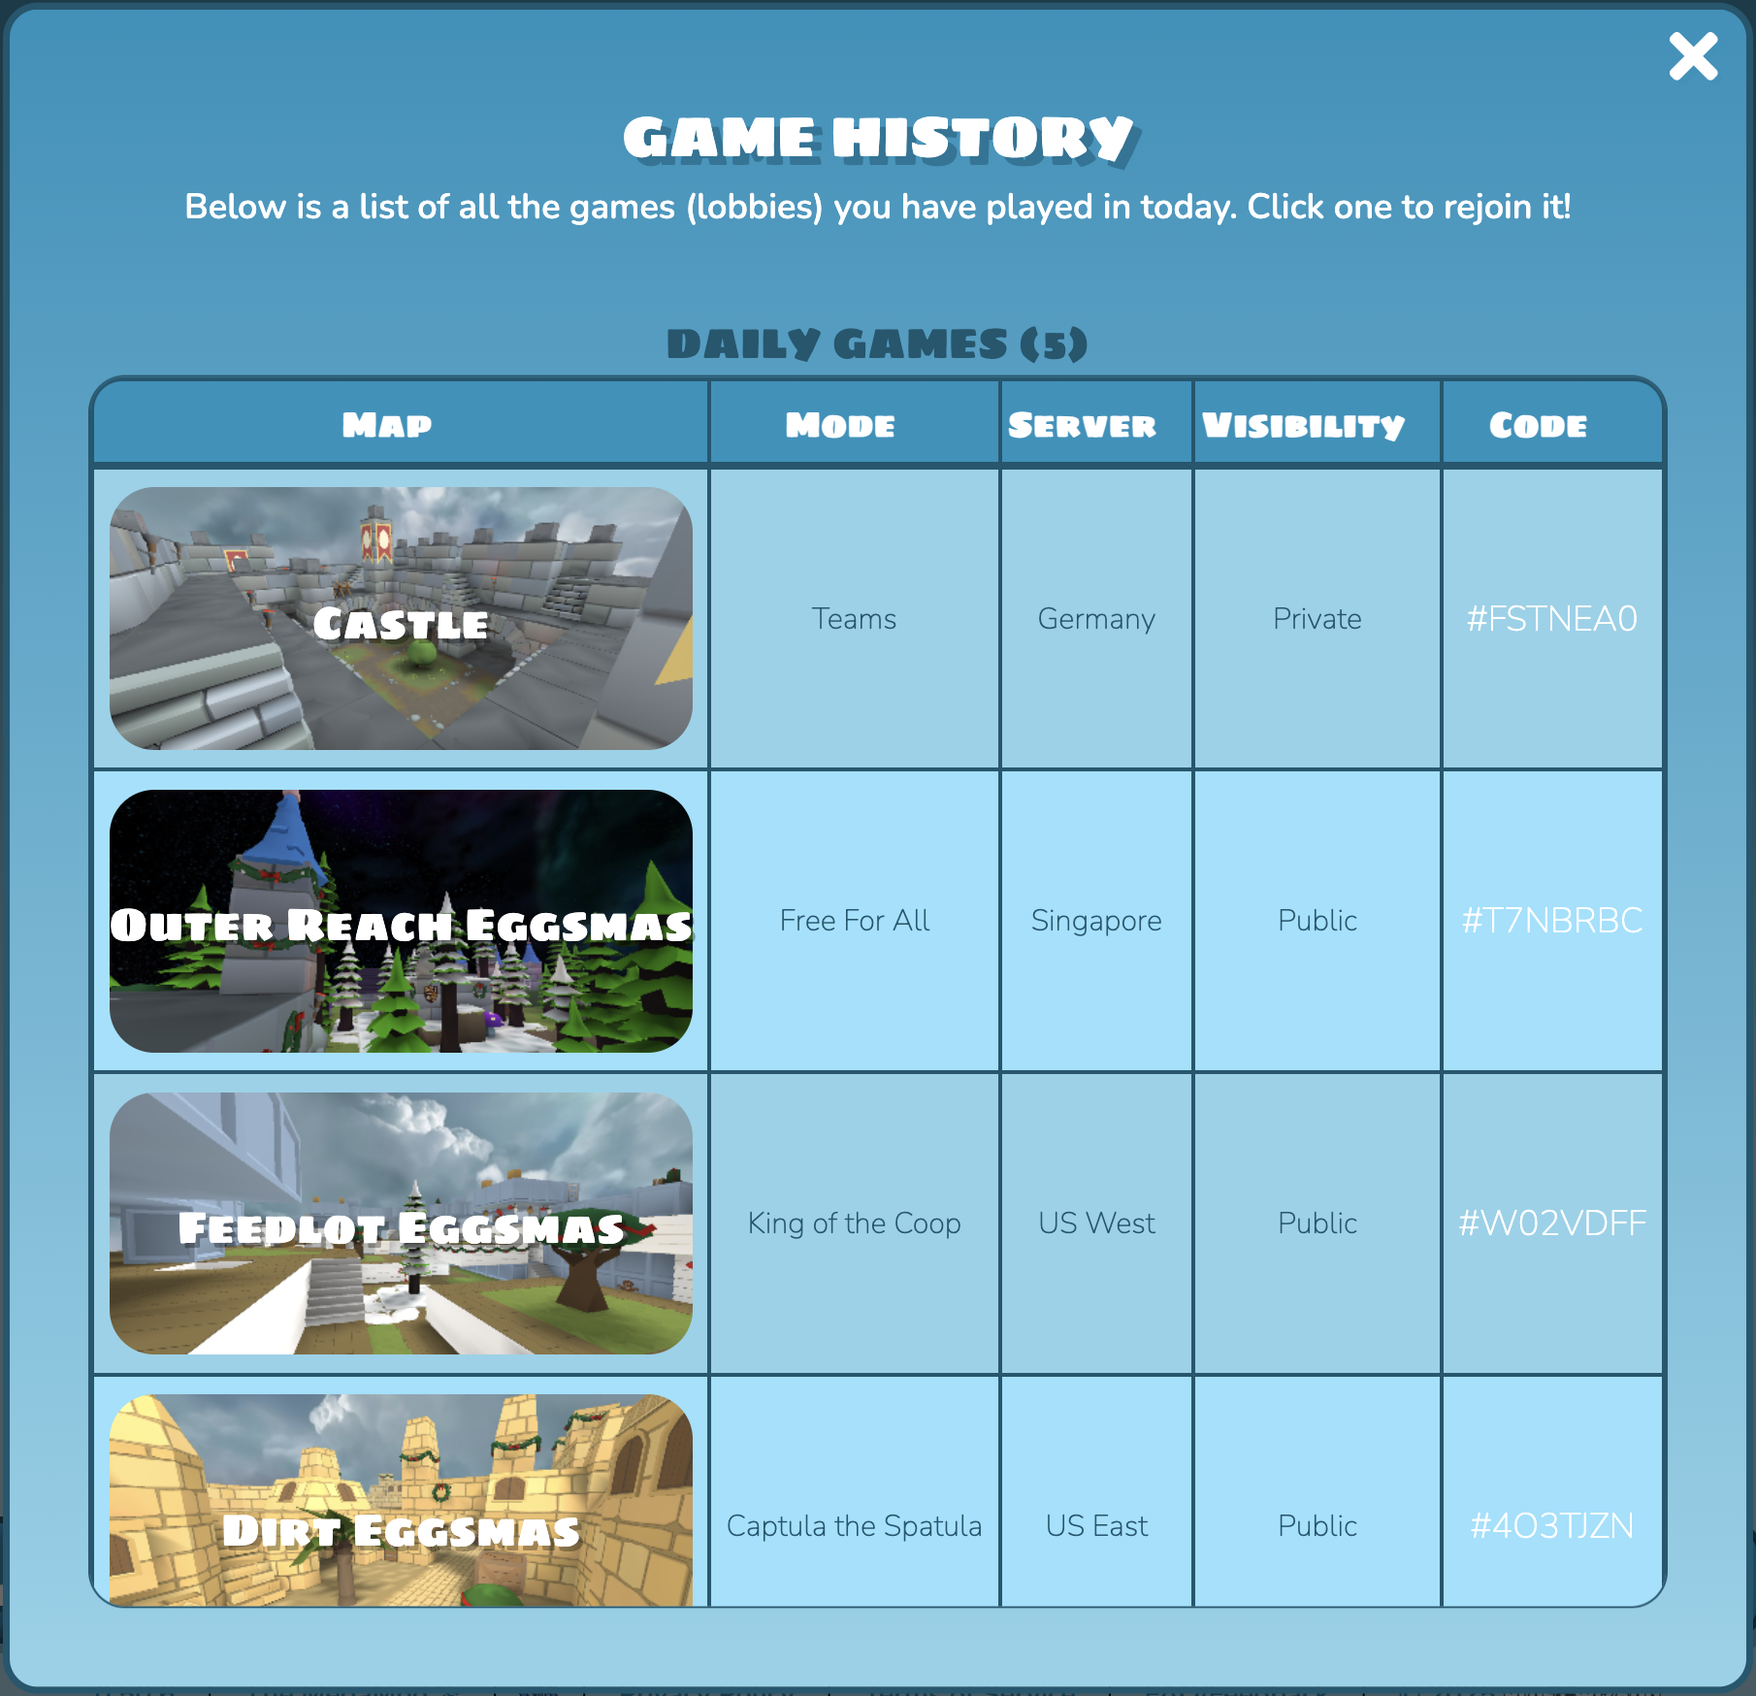
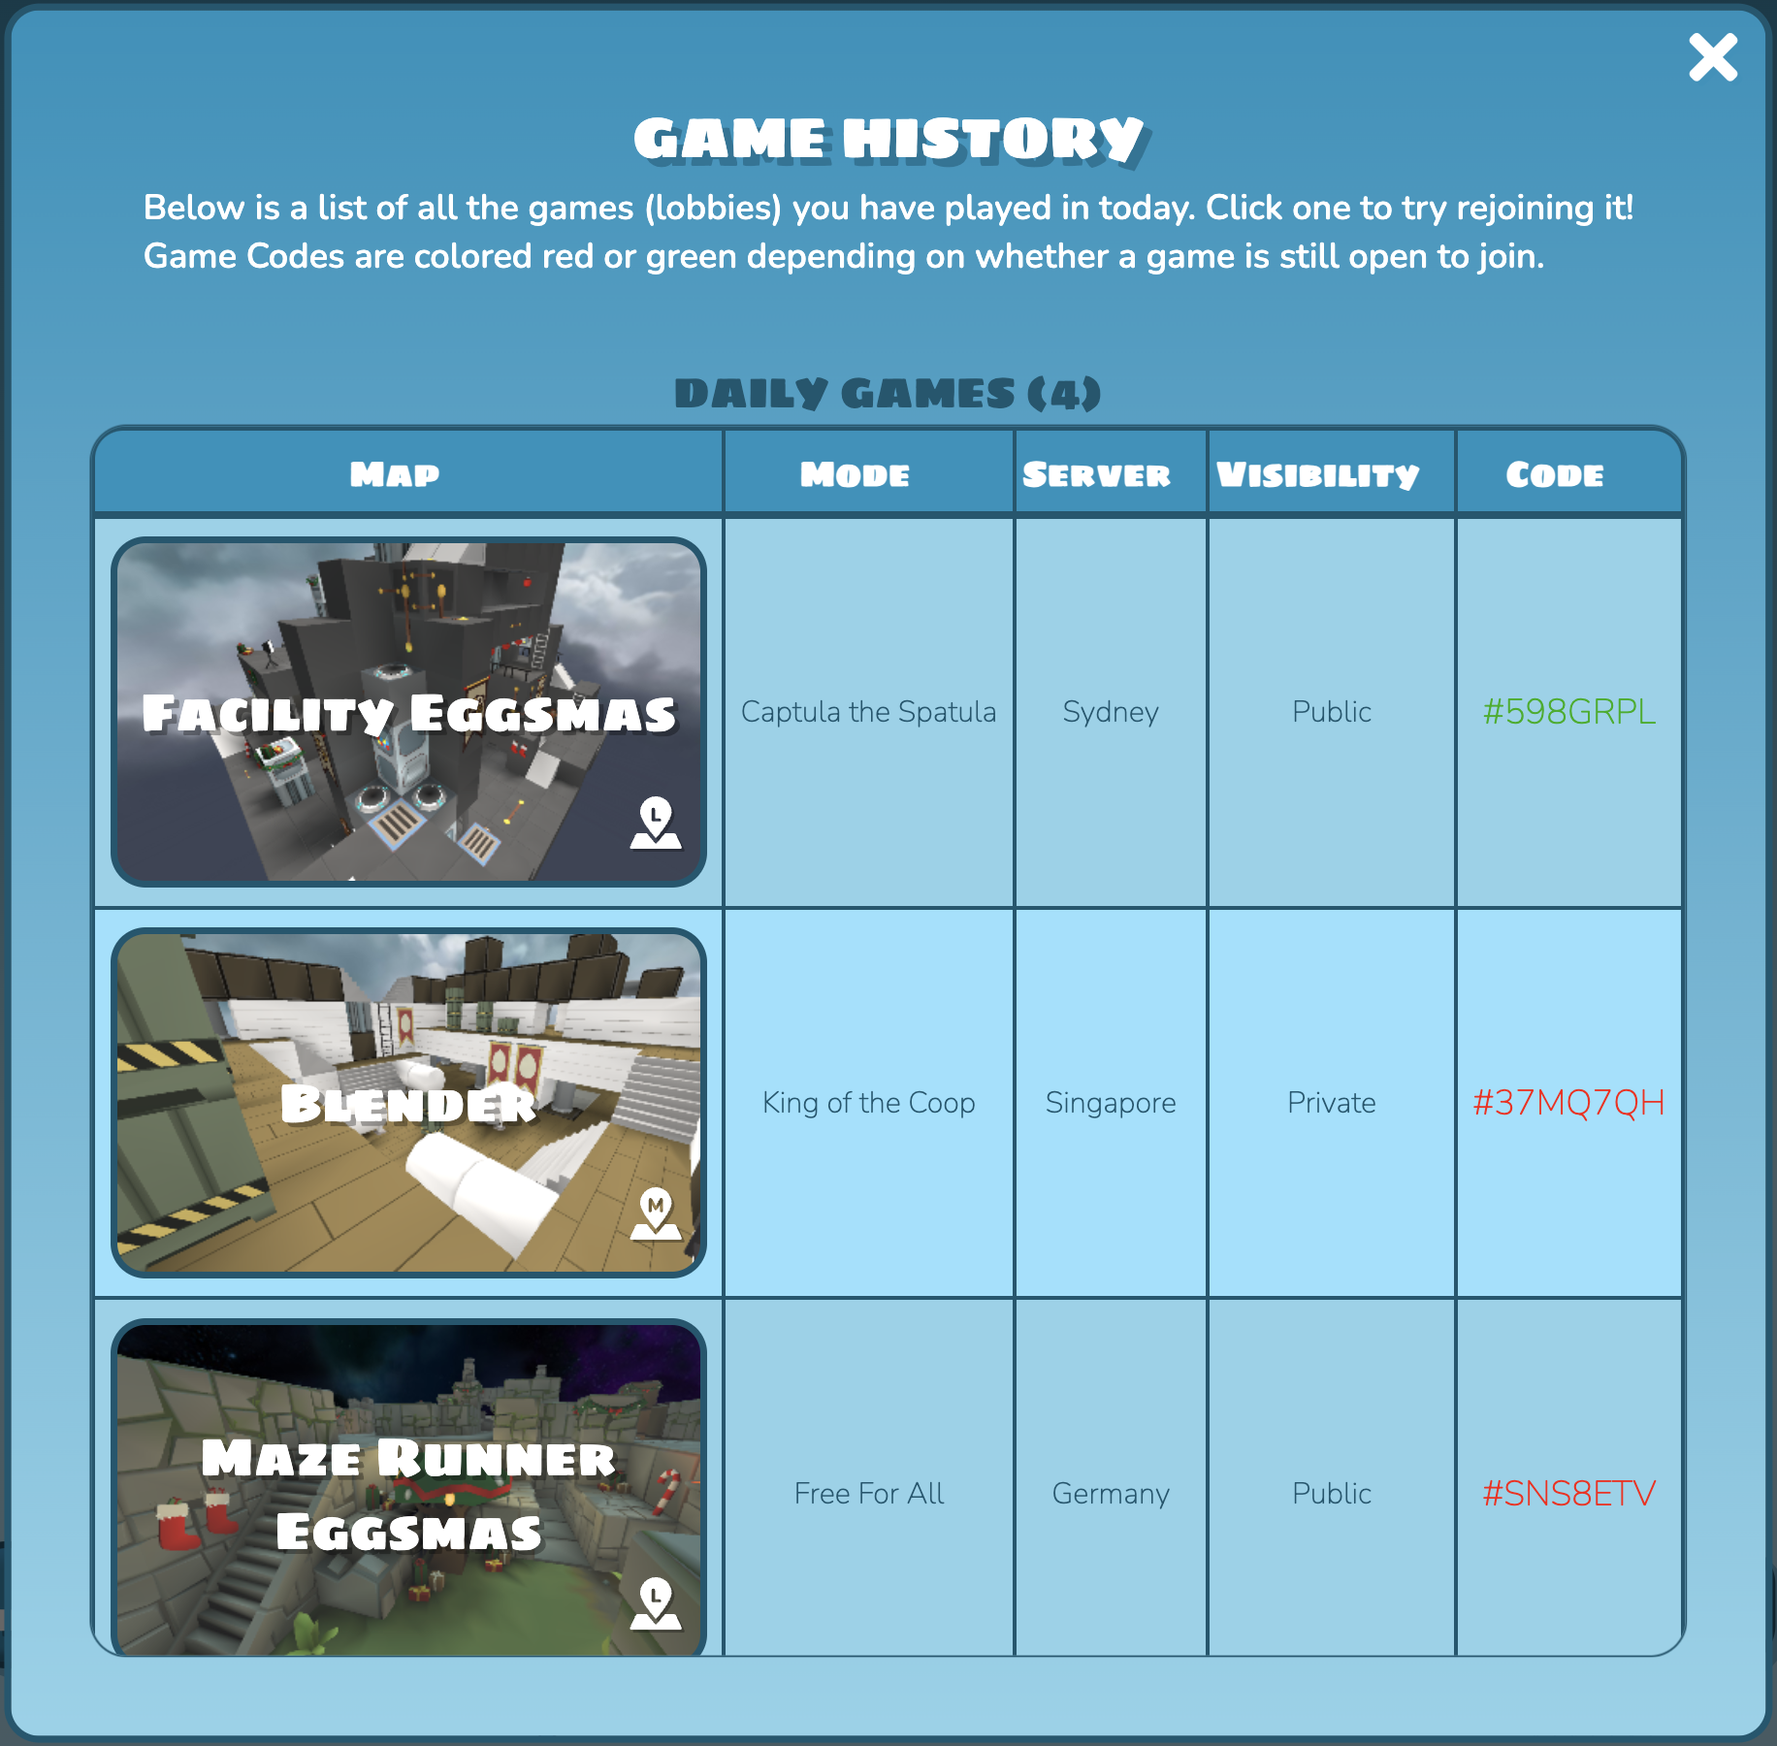
Update 0.20 (Files)

diff --git a/js/megaMod.js b/js/megaMod.js
@@ -656,12 +656,25 @@ class MegaMod {
                 BAWK.play("ui_click");
                 unsafeWindow.openUpdate();
             },
-            openGameCode(code) {
+            openGameCode(code, isOpen) {
+                if (!isOpen) {
+                    BAWK.play("ui_reset");
+                    return;
+                }
                 vueApp.$refs.gameHistoryPopup.close();
                 BAWK.play("ui_popupopen");
                 vueApp.showJoinPrivateGamePopup(code);
             },
-            currencyCode: "USD"
+            currencyCode: "USD",
+            getMapSizeIcon(size) {
+                if (size <= 13) {
+                    return 'ico-map-size-small';
+                } else if (size >= 14 && size <= 17) {
+                    return 'ico-map-size-med';
+                } else if (size > 17) {
+                    return 'ico-map-size-large';
+                }
+            }
         });
     
         // Adjust size of stats container for badges
@@ -1138,10 +1151,6 @@ class MegaMod {
             return typeof oldGoal === "number" ? oldGoal.addSeparators() : oldGoal;
         }
 
-        comp_chickn_winner_popup.computed.showAmountRewarded = function() {
-            if (this.reward.eggs) return `+${this.reward.eggs.addSeparators()}`;
-        }
-
         const oldSetupStat = StatTemplate.methods.setupStat;
         StatTemplate.methods.setupStat = function(stat) {
             if (stat?.length && !this.stat.kdr) stat = stat.map(s => typeof s === "number" ? s.addSeparators() : s);
@@ -1156,6 +1165,45 @@ class MegaMod {
         comp_game_screen.computed.wakeTheChw = function() {
             this.loc.chw_wake.format((200 * (this.chw.resets + 1)).addSeparators());
         }
+
+         // Show Chick'n Winner Owned Item
+        vueData.chw.reward.ownedItem = null;
+        const oldRewardItem = comp_chickn_winner_popup.computed.rewardItem;
+        Object.assign(comp_chickn_winner_popup.computed, {
+            // Add Separators
+            showAmountRewarded() {
+                if (this.reward.eggs) return `+${this.reward.eggs.addSeparators()}`;
+            },
+            rewardHasOwnedItem() {
+                return this.reward.ownedItem !== null;
+            },
+            rewardItem() {
+                return this.rewardHasOwnedItem ? extern.catalog.findItemById(this.reward.ownedItem) : oldRewardItem.call(this);
+            }
+        });
+        
+        comp_chickn_winner_popup.methods.eggClass = function(count) {
+            let hide;
+            if (count > 5 && (this.reward.itemIds.length || (extern?.modSettingEnabled?.('betterUI_ui') && this.reward.ownedItem))) {
+                hide = 'visibility-hidden cyborg-egg';
+            }
+            if (count > 5) {
+                return `chick-alive ${hide} egg-${count} cyborg-egg`;
+            }
+        }
+
+        const hasOwnedItem = "extern?.modSettingEnabled?.('betterUI_ui') && rewardHasOwnedItem";
+        const chicknWinner = document.getElementById("chickn-winner-template");
+        chicknWinner.innerHTML = chicknWinner.innerHTML.replace(
+            `rewardHasItem`,
+            `rewardHasItem || (${hasOwnedItem})`
+        ).replace(
+            `<div v-if="showAmountRewarded`,
+            `<div :class="{ ownedItem: ${hasOwnedItem} }" v-if="showAmountRewarded`
+        ).replace(
+            `rewardItem.name }}</h4>`,
+            `rewardItem.name }}</h4><h4 v-if="${hasOwnedItem}" class="text_white text-center nospace text-shadow-black-40">{{ loc.megaMod_betterUI_chwOwnedItem }}</h4>`
+        );
     }
 
     static addPopups() {
@@ -1277,8 +1325,15 @@ class MegaMod {
                             <tbody>
                                 <tr v-for="map in ${publicMaps}">
                                     <td :data-sort="map.name" class="map-image"> 
-                                        <div class="roundme_md text-shadow-black-40" :style="{ backgroundImage: \`url(/maps/\${map.filename}.png)\` }">
-                                        {{ map.name }}
+                                        <div id="private_maps" class="roundme_md" :style="{ backgroundImage: \`url(/maps/\${map.filename}.png)\` }">
+                                            <div id="mapNav">
+                                                <h5 id="mapText" class="text-shadow-black-40">
+                                                    {{ map.name }}
+                                                    <span class="map_playercount text-shadow-black-40 font-nunito box_absolute">
+                                                        <icon class="map-avg-size-icon fill-white shadow-filter" :name="getMapSizeIcon(map.numPlayers)"></icon>
+                                                    </span>
+                                                </h5>
+                                            </div>
                                         </div>
                                     </td>
                                     <td v-for="mode in ['FFA', 'Teams', 'Spatula', 'King']" :data-sort="map.modes[mode]" class="map-mode"> 
@@ -1308,10 +1363,17 @@ class MegaMod {
                                 </tr>
                             </thead>
                             <tbody>
-                                <tr v-for="lobby in (vueData?.gameHistory || []).slice().reverse()" @click="openGameCode(lobby.gameCode)">
+                                <tr v-for="lobby in (vueData?.gameHistory || []).slice().reverse()" @click="openGameCode(lobby.gameCode, lobby?.isOpen)">
                                     <td :data-sort="lobby.map.name" class="map-image"> 
-                                        <div class="roundme_md text-shadow-black-40" :style="{ backgroundImage: \`url(/maps/\${lobby.map.filename}.png)\` }">
-                                        {{ lobby.map.name }}
+                                        <div id="private_maps" class="roundme_md" :style="{ backgroundImage: \`url(/maps/\${lobby.map.filename}.png)\` }">
+                                            <div id="mapNav">
+                                                <h5 id="mapText" class="text-shadow-black-40">
+                                                    {{ lobby.map.name }}
+                                                    <span class="map_playercount text-shadow-black-40 font-nunito box_absolute">
+                                                        <icon class="map-avg-size-icon fill-white shadow-filter" :name="getMapSizeIcon(maps.find(m => m.filename === lobby.map.filename).numPlayers)"></icon>
+                                                    </span>
+                                                </h5>
+                                            </div>
                                         </div>
                                     </td>
                                     <td :data-sort="loc[lobby.modeLoc]"> {{ loc[lobby.modeLoc] }} </td>
@@ -1320,7 +1382,7 @@ class MegaMod {
                                         {{ lobby.isPrivate ? 'Private' : 'Public' }}
                                     </td>
                                     <td :data-sort="lobby.gameCode"> 
-                                        <a @click="openGameCode(lobby.gameCode)">#{{ lobby.gameCode }}</a>
+                                        <a class="gameCode" :class="{ closed: !lobby?.isOpen }" @click="openGameCode(lobby.gameCode, lobby?.isOpen)">#{{ lobby.gameCode }}</a>
                                     </td>
                                 </tr>
                             </tbody>
@@ -2622,6 +2684,7 @@ class BetterUI {
         }, 250);
 
         fetch('https://ipapi.co/currency/').then(res => res.text()).then(res => {
+            console.log(res, Object.keys(this.currencyIcons).includes(res), this.currencyIcons[res]);
             if (Object.keys(this.currencyIcons).includes(res) && this.currencyIcons[res]) vueApp.currencyCode = res;
         });
 
@@ -2917,8 +2980,7 @@ class BetterUI {
     initGameHistory() {
         const history = JSON.parse(localStore.getItem(BetterUI.GAME_HISTORY_KEYS.list));
         if (history) vueApp.gameHistory = history;
-        this.checkGameHistory();
-        this.saveGameHistory();
+        setTimeout(this.checkOpenGames.bind(this), 1000);
     }
 
     checkGameHistory() {
@@ -2927,6 +2989,7 @@ class BetterUI {
         if (!then || then.toDateString() !== now.toDateString()) {
             vueApp.gameHistory = [];
             localStore.setItem(BetterUI.GAME_HISTORY_KEYS.time, now.toJSON());
+            this.saveGameHistory();
         }
     }
 
@@ -2940,7 +3003,8 @@ class BetterUI {
             modeLoc: vueApp.gameTypes.find(type => type.value == vueApp.game.gameType).locKey,
             serverLoc: `server_${vueApp.currentRegionId}`,
             gameCode: gameCode,
-            isPrivate: extern.isPrivateGame
+            isPrivate: extern.isPrivateGame,
+            isOpen: true
         };
         mapData.map.filename = vueApp.maps.find(map => map.name == mapData.map.name).filename;
 
@@ -2948,10 +3012,46 @@ class BetterUI {
         vueApp.gameHistory.push(mapData);
 
         this.saveGameHistory();
+        setTimeout(this.checkOpenGames.bind(this), 1000);
     }
 
     saveGameHistory() {
         localStore.setItem(BetterUI.GAME_HISTORY_KEYS.list, JSON.stringify(vueApp.gameHistory));
+    }
+
+    setGameClosed(id) {
+        vueApp.gameHistory[vueApp.gameHistory.findIndex(game => game.gameCode === id)].isOpen = false;
+        this.saveGameHistory(); // Could do this at the end of setting all games closed
+    }
+
+    checkGame(id) {
+        Object.assign(new WebSocket(`${isHttps() ? "wss" : "ws"}://${window.location.hostname}/matchmaker/`), {
+            noticeReceived: false,
+            onopen() {
+                this.send(JSON.stringify({
+                    command: "joinGame",
+                    id,
+                    observe: false,
+                    sessionId: extern.account.sessionId
+                }));
+            },
+            onmessage(e) { 
+                const { command, error } = JSON.parse(e.data);
+                if (this.noticeReceived && error === "gameNotFound") {
+                    unsafeWindow.megaMod.betterUI.setGameClosed(id);
+                }
+                this.noticeReceived = command == "notice";
+            }
+        });
+    }
+
+    checkOpenGames() {
+        MegaMod.log("checkOpenGames():", "Checking Open Games...");
+        this.checkGameHistory();
+        vueApp.gameHistory.filter(game => game?.isOpen).forEach(({ gameCode }) => this.checkGame(gameCode));
+        
+        if (this.gameHistoryTimeout) clearTimeout(this.gameHistoryTimeout);
+        this.gameHistoryTimeout = setTimeout(this.checkOpenGames.bind(this), 5*60000);
     }
 
     initProfileBadges(badgeData) {
@@ -3211,18 +3311,28 @@ class BetterUI {
     }
 
     refreshItemSlots() {
-        if (vueApp.game.isPaused) {
-            switch (vueApp.currentEquipMode) {
-                case vueApp.equipMode.inventory:
-                case vueApp.equipMode.skins:
-                case null:
-                    [null, vueApp.equip.selectedItemType].forEach(type => setTimeout(vueApp.$refs.equipScreen.populateItemGridWithType, 0, type));
-                    break;
-                case vueApp.equipMode.featured:
-                    vueApp.equip.showUnVaultedItems = [];
-                    setTimeout(() => vueApp.equip.showUnVaultedItems = extern.getTaggedItems(vueApp.ui.premiumFeaturedTag), 1);
-                    break;
-            }
+        if (!vueApp.game.isPaused) return;
+        const { inventory, skins, shop, featured } = vueApp.equipMode;
+        const refreshItemGrid = () => {
+            if (!vueApp.equip.showingItems.length) return;
+            vueApp.equip.showingItems.fill(extern.getItemsOfType(ItemType.Hat)[0]);
+            setTimeout(vueApp.$refs.equipScreen.setupItemGridMain);
+        };
+    
+        switch (vueApp.currentEquipMode) {
+            case inventory:
+            case skins:
+            case null:
+                refreshItemGrid();
+                break;
+            case featured:
+                refreshItemGrid();
+                // No break to fall through to shop case
+            case shop:
+                if (!vueApp.equip.showUnVaultedItems.length) break;
+                vueApp.equip.showUnVaultedItems.fill(vueApp.equip.showUnVaultedItems[0]);
+                setTimeout(vueApp.$refs.equipScreen.getVaultedItemsForGrid, 0, true);
+                break;
         }
     }
 
@@ -3392,11 +3502,11 @@ class LegacyMode {
             }
         });
         if (extern.inGame) extern.updateLegacySkinsInGame(enabled);
-        const origItems = vueApp.$refs.equipScreen.equip.showingItems;
         // POV: too lazy to think of something better :D
-        if (vueApp.currentEquipMode === vueApp.equipMode.inventory && !([ItemType.Grenade, ItemType.Melee].includes(vueApp.$refs.equipScreen.equip.showingWeaponType) || vueApp.classIdx == CharClass.TriHard)) {
-            vueApp.$refs.equipScreen.equip.showingItems = origItems.map(_ => extern.getItemsOfType(ItemType.Hat)[0]);
-            setTimeout(() => { vueApp.$refs.equipScreen.equip.showingItems = origItems; }, 0);
+        if (vueApp.equip.showingItems && vueApp.currentEquipMode === vueApp.equipMode.inventory && !([ItemType.Grenade, ItemType.Melee].includes(vueApp.$refs.equipScreen.equip.showingWeaponType) || vueApp.classIdx == CharClass.TriHard)) {
+            const origItems = vueApp.$refs.equipScreen.equip.showingItems;
+            vueApp.$refs.equipScreen.equip.showingItems = Array.from({ length: origItems.length }, () => extern.getItemsOfType(ItemType.Hat)[0]);
+            setTimeout(() => vueApp.$refs.equipScreen.equip.showingItems = origItems, 0);
         }
 
         if ((vueApp.currentEquipMode === vueApp.equipMode.inventory || vueApp.currentEquipMode == null) && vueApp.game.isPaused) {

diff --git a/mods/css/ui.css b/mods/css/ui.css
@@ -364,22 +364,21 @@ input[type='range']::-webkit-slider-thumb {
 	max-height: 35em;
 }
 
-#gameHistoryPopup .map-image,
-#mapPopup .map-image {
-	 width: 15em;
-	 height: 10em;
-	 font-family: "Sigmar One";
-	 color: var(--ss-white) !important;
-	 text-align: center;
+#mapPopup #private_maps #mapText,
+#gameHistoryPopup #private_maps #mapText {
+    font-size: 1.5em;
+    line-height: 1.4em;
+    color: var(--ss-white);
+    width: 100%;
+    text-wrap-mode: wrap;
 }
 
-#gameHistoryPopup .map-image div,
-#mapPopup .map-image div {
-	 font-size: 1.5em;
-	 width: 100%;
-	 height: 100%;
-	 background-size: cover;
-	 padding-top: 2.2em;
+#mapPopup #private_maps, 
+#gameHistoryPopup #private_maps {
+    width: 17em;
+    height: 10em;
+    text-align: center;
+    z-index: 0;
 }
 
 #gameHistoryPopup td {
@@ -390,6 +389,20 @@ input[type='range']::-webkit-slider-thumb {
 	 font-size: 1em;
 }
 
+#gameHistoryPopup .gameCode {
+	color: rgb(0, 175, 0);
+}
+#gameHistoryPopup .gameCode:hover {
+	color: green;
+}
+
+#gameHistoryPopup .gameCode.closed {
+	color: red;
+}
+#gameHistoryPopup .gameCode.closed:hover {
+	color: rgb(175, 0, 0);
+}
+
 /* Chick'n Winner Stretch (Despawn Menu) */
 .chw-progress-wrapper {
 	 width: 100% !important;
@@ -397,4 +410,15 @@ input[type='range']::-webkit-slider-thumb {
 
 .chw-progress-bar-wrap {
 	width: 98.5% !important;
+}
+
+/* Chick'n Winner Egg Amount Width Fix */
+.chw-reward-amount {
+    width: 18em;
+    margin-left: -2em !important;
+}
+
+/* Chick'n Winner Owned Item */
+.chw-reward-amount.ownedItem h2 {
+    bottom: .2em;
 }

diff --git a/README.md b/README.md
@@ -141,6 +141,13 @@ There's a new link added to the footer on the home screen, which opens a changel
       - Profile Stats Values
       - Egg Reward Amounts
       - etc.
+    - Chick'n Winner now shows when you pull an item you already own.
+    - Fixed Chick'n Winner egg icon not being on the same line as egg reward amount
+      <details>
+      <summary>See Updated Chick'n Winner (Image)</summary>
+
+      ![Chick'n Winner Owned Item](img/docs/betterUI/misc/CHW%20Owned%20Item.png)
+      </details>
 
   </details>
 - **Better Inventory**
